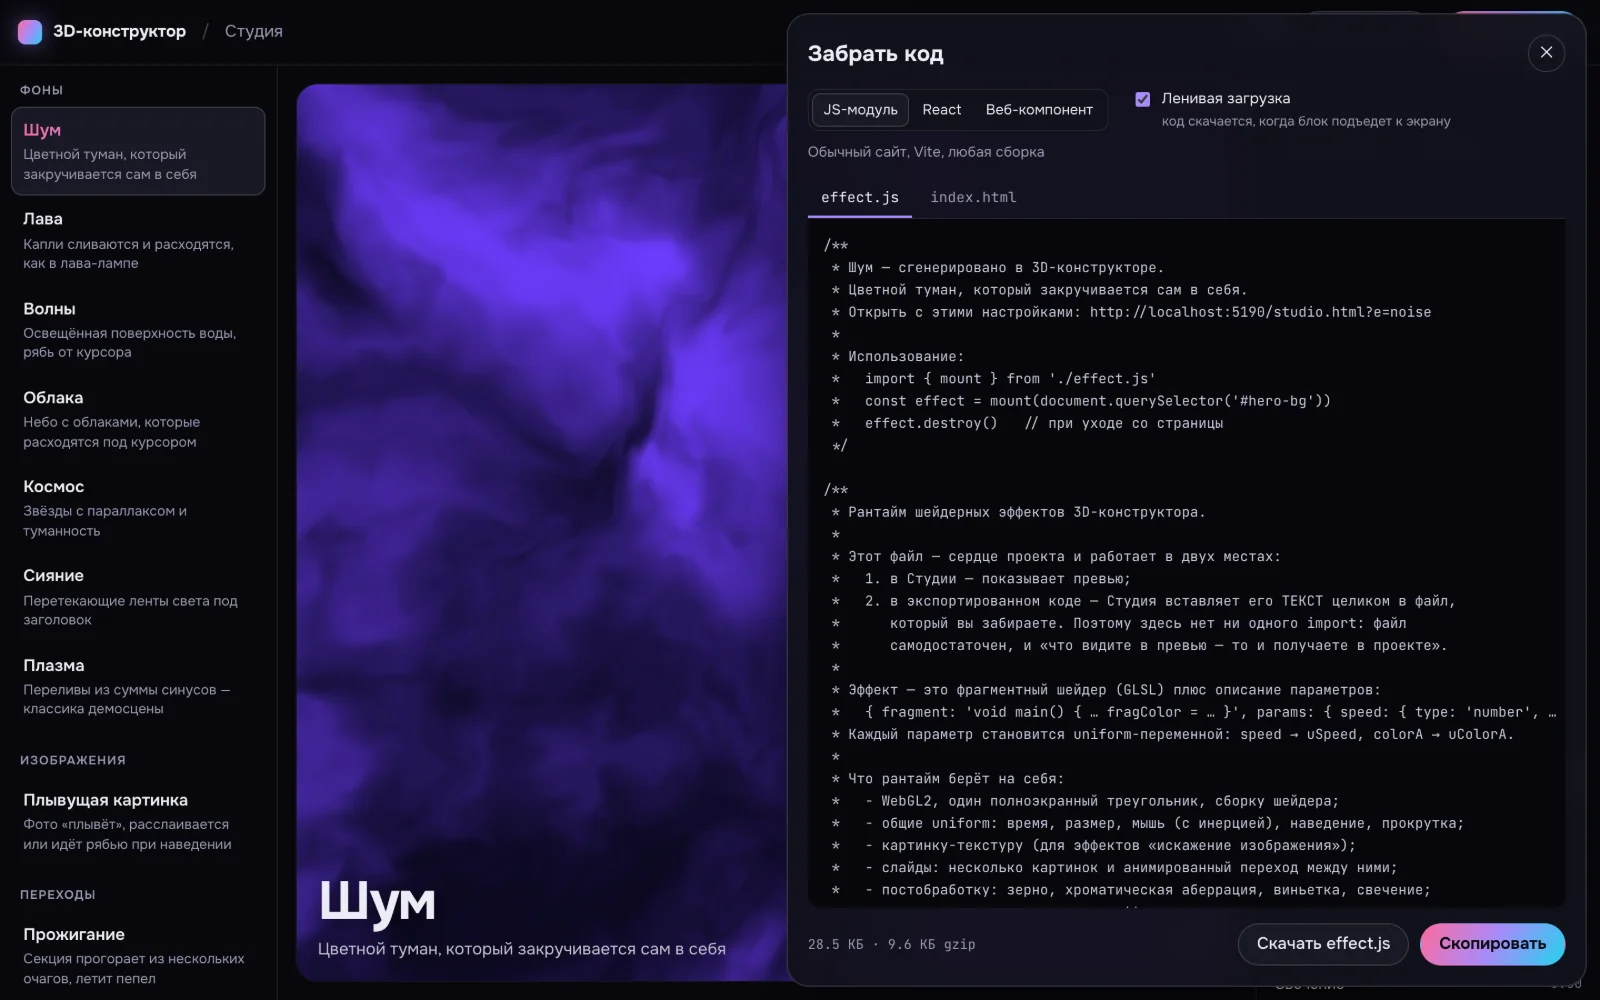
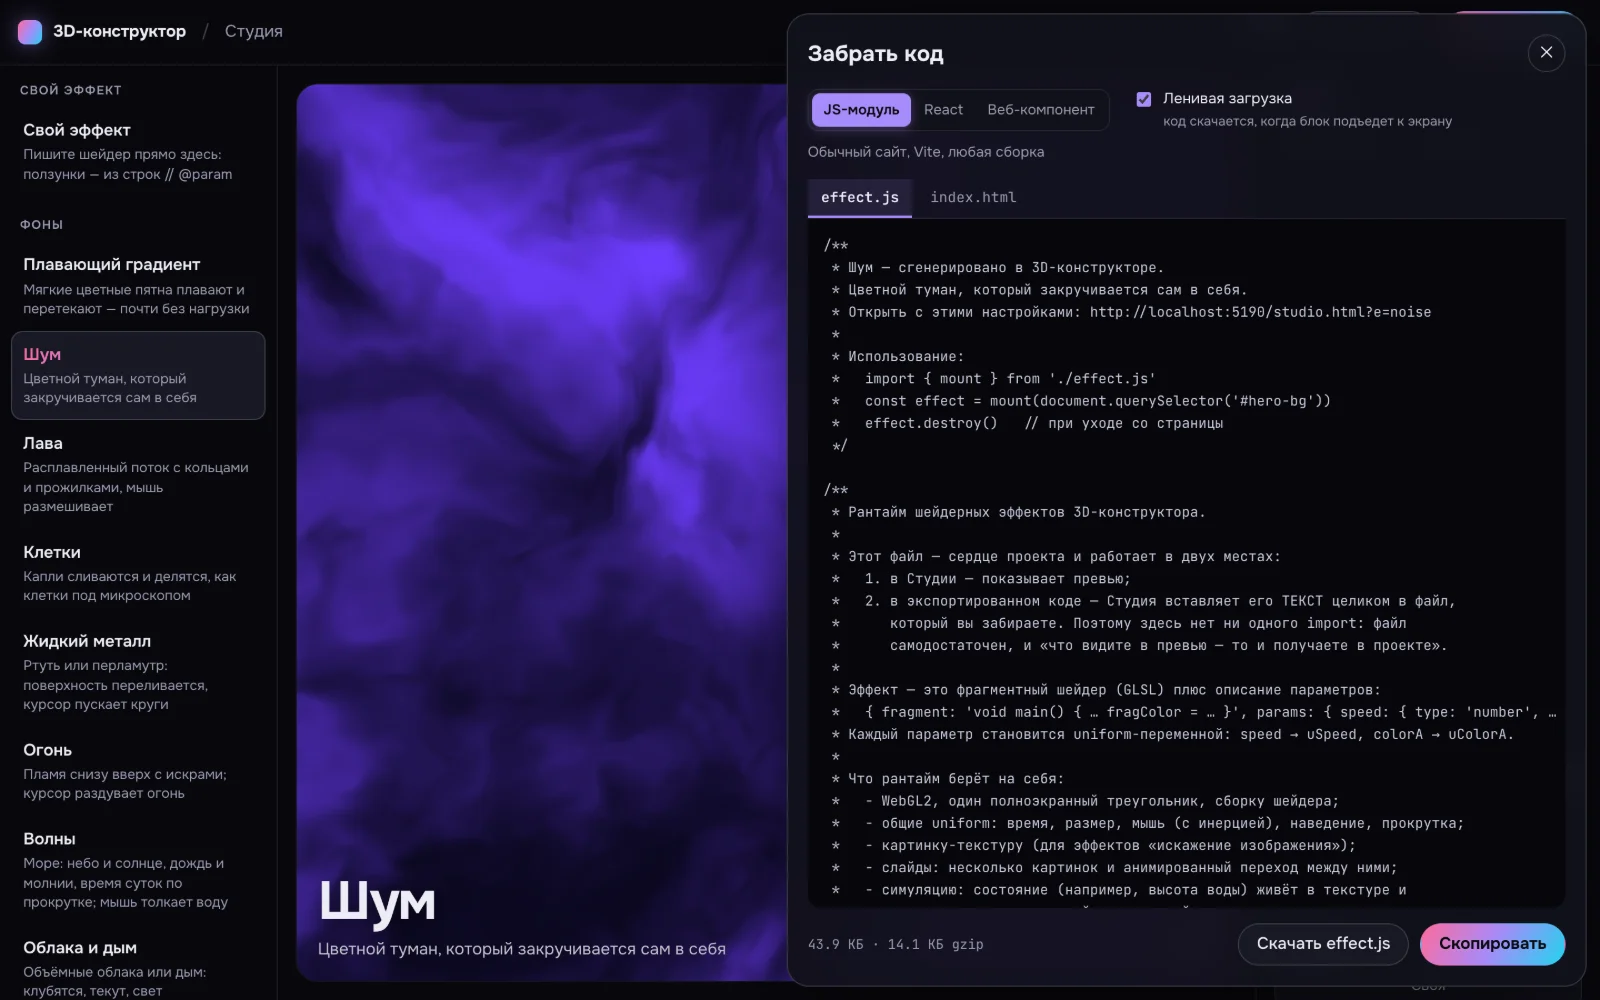
Фото «Тропики» с Unsplash в выборе картинок; README: новые эффекты, благодарности

diff --git a/src/studio/App.tsx b/src/studio/App.tsx
@@ -19,6 +19,7 @@ import { Preview } from './Preview'
 /** Готовые картинки для эффектов изображения и слайдов. */
 const DEMOS = [
   { name: 'Тропики', file: 'tropics.svg' },
+  { name: 'Тропики (фото)', file: 'tropics-photo.jpg' },
   { name: 'Закат в горах', file: 'photo.svg' },
   { name: 'Пустыня', file: 'photo-2.svg' },
   { name: 'Ночной город', file: 'photo-3.svg' },

diff --git a/src/styles/studio.css b/src/styles/studio.css
@@ -950,7 +950,7 @@
 
 .demos {
   display: grid;
-  grid-template-columns: repeat(5, minmax(0, 1fr));
+  grid-template-columns: repeat(3, minmax(0, 1fr));
   gap: 6px;
   margin-top: 10px;
 }

diff --git a/README.md b/README.md
@@ -27,6 +27,13 @@ React-компонент или веб-компонент `<k3d-…>`. В про
 
 ## Что внутри
 
+**Ещё эффекты.** Фоны «Жидкий металл» (ртуть, перламутр, золото, нефть) и «Огонь».
+Изображения: «Стереть мышью» (иней, туман, скретч), «Жидкая маска», «Жидкое искажение»,
+выбор картинки (в том числе своя). Смена слайдов: зум, глитч, волна, жидкое смещение, капля.
+Переходы: языки пламени, «Таяние», свои очаги кликами. Курсоры: падающая звезда, неон, рой,
+поток линий, «под контент». 3D: стеклянные фигуры (мышь, прокрутка, клик), логотип из картинки
+для морфинга и текста из частиц. Траектория для всех эффектов и «Свой эффект» — шейдер прямо в Студии.
+
 **Интерфейс и лёгкие фоны.** «Плавающий градиент» (≈ 0,3 мс видеокарты: низкое разрешение и
 30 кадров по умолчанию), «Жидкая смена при наведении» (фото перетекает во второе), «Жидкая
 кнопка» (SVG-фильтр goo: капли слипаются, как ртуть), «Прелоадер» (название наполняется
@@ -82,11 +89,8 @@ GSAP ScrollTrigger). **«Смена слайдов»** — фото слайде
 и видеокарте, размер холста, плотность пикселей, вызовы отрисовки. На сайте — только в режиме
 разработки (в сборку не попадает).
 
-**64 теста:** 40 в Vitest (адрес Студии туда-обратно, проверка значений, пресеты, экспорт
-импортируется как настоящий модуль — в том числе 3D с настоящим three.js, поле прогорания
-равномерно) и 24 сценария Playwright: каждый эффект компилируется и рисует не пустой кадр,
-переход прогорает при прокрутке и откатывается назад, экспортированные модуль, переход,
-слайдер и 3D-эффект (через import map) работают на чистой странице.
+**130 тестов:** 71 в Vitest и 59 сценариев Playwright: каждый эффект открывается без ошибок и
+рисует не пустой кадр, экспорт каждого вида работает на чистой странице.
 
 ## Запуск
 
@@ -123,6 +127,12 @@ npm run e2e        # Playwright (локально — установленный
 
 Vite 8 · TypeScript 7 · React 19 (только Студия) · WebGL2 / GLSL ES 3.0 · three.js 0.186 · Vitest · Playwright ·
 oxlint · GitHub Actions → GitHub Pages.
+
+## Благодарности
+
+Фото «Тропики» — [Ashutosh Saraswat, Unsplash](https://unsplash.com/photos/silhouette-of-palm-tree-on-sea-during-sunset-hqbzhuKOobY)
+(лицензия Unsplash). Идеи части эффектов — примеры с CodePen, ссылки в [docs/](docs/README.md);
+код написан заново.
 
 ## Лицензия
 
